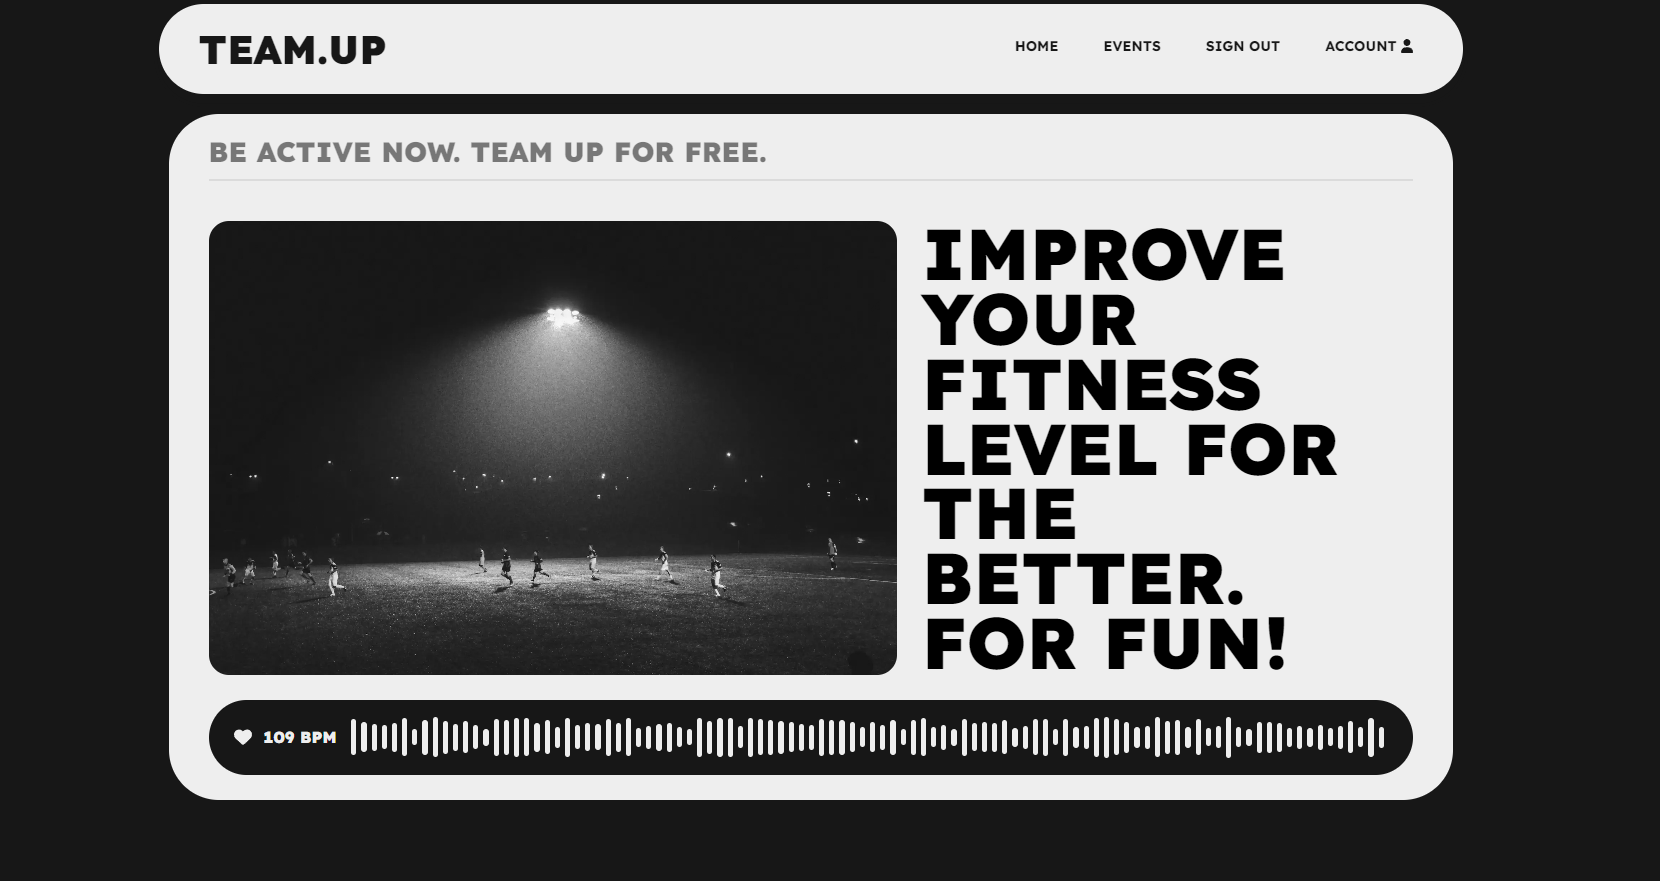
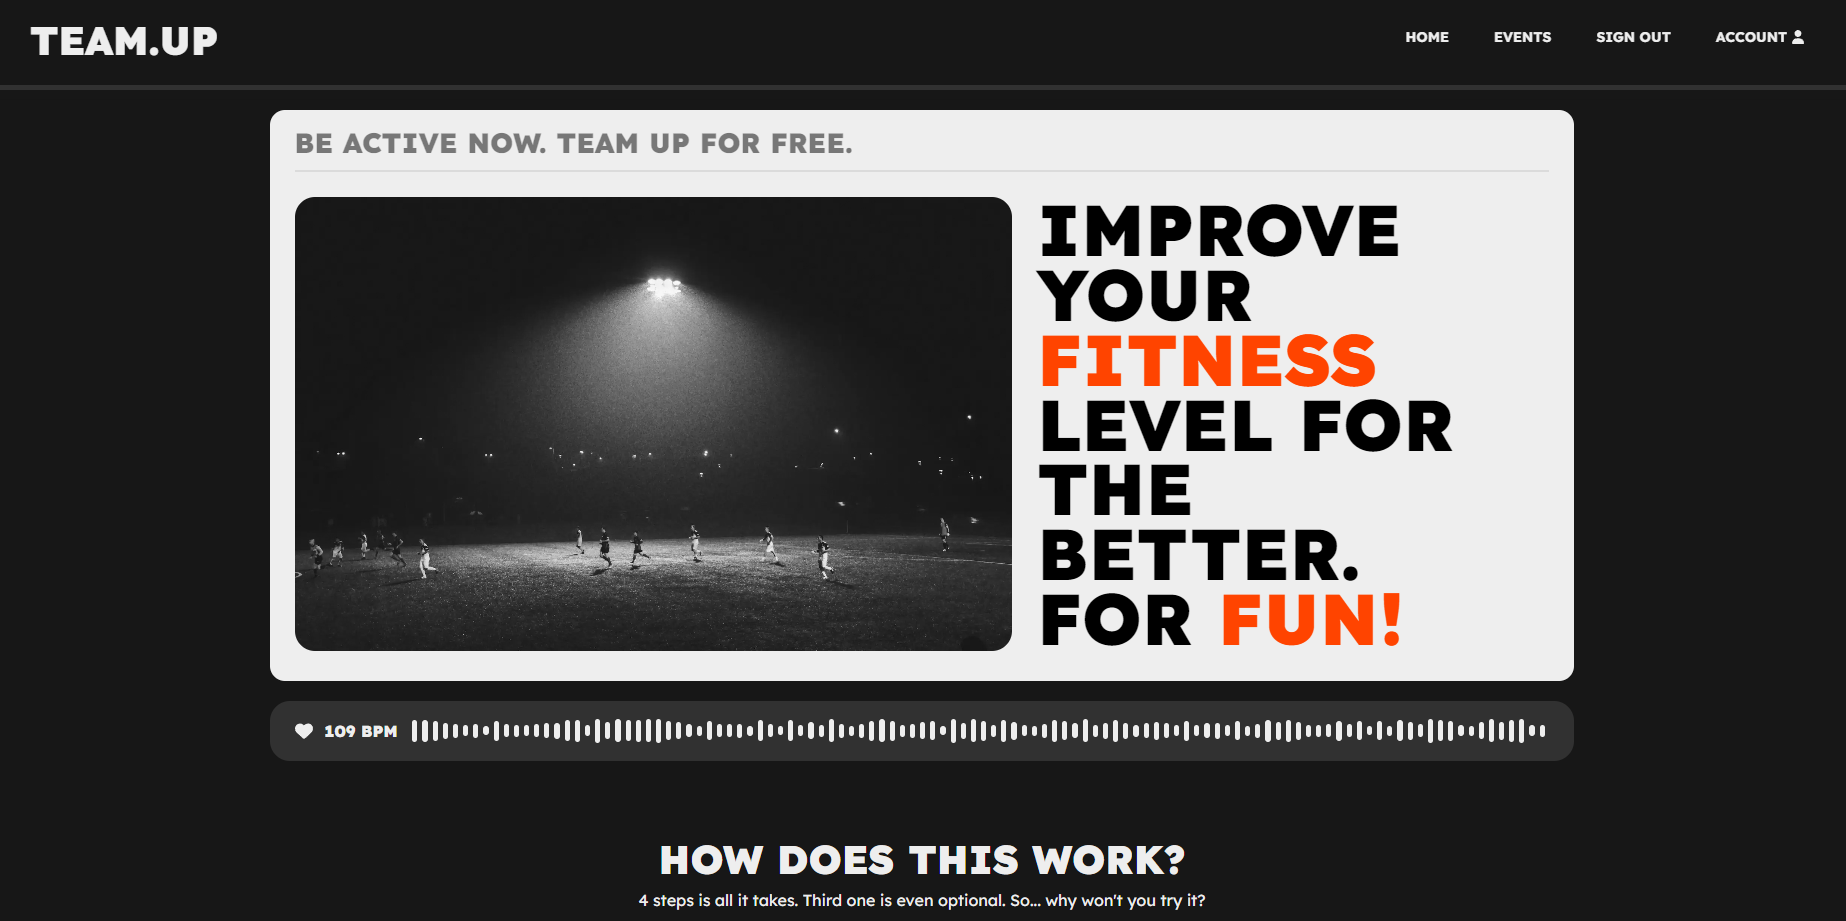
TU-28: Updated envs

diff --git a/src/components/structure/navbar/Navbar.module.scss b/src/components/structure/navbar/Navbar.module.scss
@@ -11,22 +11,21 @@
   align-items: center;
   gap: $spacing-m;
   padding: $spacing-xl $spacing-xxl;
-  margin: $spacing-m auto;
-  background: $primary-main-color;
+  margin: 0 auto $spacing-m;
+  background: $background-main-color;
+  border-bottom: 5px solid $background-light-color;
   box-shadow: $light-shadow;
-  border-radius: $radius-xxl;
   transition: transform 0.3s;
   box-sizing: border-box;
 
-  @include dynamic-width;
-  width: calc(100% - 2 * #{$spacing-m});
+  width: 100%;
 
   &.collapsed {
     transform: translateY(-500%);
   }
 
   .logo {
-    color: $text-primary;
+    color: $text-secondary;
     word-break: break-all;
     text-transform: uppercase;
     font-size: $logo-font;
@@ -51,14 +50,14 @@
     @media (max-width: $lg) {
       position: absolute;
       left: 0;
-      top: calc(100% + #{$spacing-m});
+      top: 100%;
       width: 100%;
       flex-direction: column;
-      background: $primary-main-color;
+      background: $background-main-color;
       padding: $spacing-m $spacing-l;
-      border-radius: $radius-m;
       box-shadow: $light-shadow;
       box-sizing: border-box;
+      border-bottom: 5px solid $background-light-color;
 
       &.hidden {
         transform: translateY(-500px);
@@ -66,7 +65,7 @@
     }
 
     .tab {
-      color: $text-primary;
+      color: $text-secondary;
       padding: $spacing-m;
       font-size: $s-font;
       font-weight: bold;

diff --git a/src/components/landing/landing-banner/LandingBanner.module.scss b/src/components/landing/landing-banner/LandingBanner.module.scss
@@ -2,13 +2,13 @@
 @import "src/styles/mixins.module";
 
 .landingBanner {
-  max-width: 100%;
+  width: 100%;
   overflow: hidden;
   position: relative;
   margin: $spacing-m;
-  padding: $spacing-m $spacing-xxl $spacing-xl;
+  padding: $spacing-s $spacing-xl;
   background-color: $primary-main-color;
-  border-radius: $radius-xxl;
+  border-radius: $radius-s;
   box-sizing: border-box;
 
   .header {
@@ -18,33 +18,18 @@
     opacity: 0.5;
   }
 
-  &:hover {
-    .content {
-      .imageContainer {
-        filter: none;
-      }
-
-      .slogan {
-        b {
-          color: $secondary-main-color;
-        }
-      }
-    }
-  }
-
   .content {
+    margin: $spacing-xl 0 $spacing-xl 0;
+    box-sizing: border-box;
     display: grid;
     grid-template-columns: 7fr 5fr;
     grid-column-gap: $spacing-xl;
-    margin: $spacing-xxl 0 $spacing-xl 0;
-    box-sizing: border-box;
 
     .imageContainer {
       position: relative;
       overflow: hidden;
       border-radius: $radius-m;
       filter: saturate(0);
-      transition: filter 0.3s;
 
       img {
         object-fit: cover;
@@ -61,7 +46,7 @@
 
       b {
         font-weight: inherit;
-        transition: color 0.3s;
+        color: $secondary-main-color;
       }
     }
   }

diff --git a/src/components/landing/heart-monitor/HeartMonitor.module.scss b/src/components/landing/heart-monitor/HeartMonitor.module.scss
@@ -3,15 +3,15 @@
 
 .heartMonitor {
   width: 100%;
-  height: 75px;
+  height: 60px;
   display: flex;
   justify-content: center;
   align-items: center;
   gap: $spacing-m;
-  background-color: $background-main-color;
+  background-color: $background-light-color;
   color: $primary-main-color;
   padding: 0 $spacing-xl;
-  border-radius: $radius-xxl;
+  border-radius: $radius-m;
   box-sizing: border-box;
 
   .heartbeatIcon {
@@ -26,13 +26,13 @@
   }
 
   .chartContainer {
-    height: 80%;
+    height: 50%;
     flex-grow: 1;
     display: flex;
     justify-content: space-evenly;
     align-items: center;
     gap: 5px;
-    padding: $spacing-s;
+    padding: 0 $spacing-s;
     box-sizing: border-box;
 
     .dash {

diff --git a/src/pages/index.tsx b/src/pages/index.tsx
@@ -3,11 +3,13 @@ import SectionHeader from '@components/structure/section-header/SectionHeader';
 import MainLayout from '@layouts/main/MainLayout';
 import TilesContainer from '@components/structure/tiles-container/TilesContainer';
 import { HOW_TO_USE_STEPS } from '@shared/constants/ContentConstants';
+import HeartMonitor from '@components/landing/heart-monitor/HeartMonitor';
 
 const Home = () => {
   return (
     <MainLayout>
       <LandingBanner />
+      <HeartMonitor />
       <SectionHeader
         header="How does this work?"
         subheader="4 steps is all it takes. Third one is even optional. So... why won't you try it?"

diff --git a/src/components/landing/landing-banner/LandingBanner.tsx b/src/components/landing/landing-banner/LandingBanner.tsx
@@ -1,7 +1,6 @@
 import styles from './LandingBanner.module.scss';
 import Image from 'next/image';
 import { FOOTBALL_DARK_IMG } from '@shared/constants/ImageConstants';
-import HeartMonitor from '@components/landing/heart-monitor/HeartMonitor';
 
 const LandingBanner = () => {
   return (
@@ -15,7 +14,6 @@ const LandingBanner = () => {
           Improve your <b>fitness</b> level for the better. For <b>fun!</b>
         </p>
       </section>
-      <HeartMonitor />
     </article>
   );
 };

diff --git a/src/services/ApiClient.ts b/src/services/ApiClient.ts
@@ -1,11 +1,10 @@
 import axios, { HttpStatusCode } from 'axios';
 import { refreshToken } from './AuthService';
 import { signOut } from 'next-auth/react';
-
-export const apiURL = process.env.REACT_APP_PROD_API_URL ?? 'http://localhost:8080/app';
+import { API_URL } from '@shared/config/AppConfig';
 
 export const apiClient = axios.create({
-  baseURL: apiURL,
+  baseURL: API_URL,
   headers: {
     'Content-Type': 'application/json',
     Accept: 'application/json'

diff --git a/src/components/primitives/button/Button.tsx b/src/components/primitives/button/Button.tsx
@@ -3,13 +3,13 @@ import styles from './Button.module.scss';
 import classNames from 'classnames';
 
 export interface ButtonProps extends ComponentProps<'button'> {
-  variant: 'main' | 'success' | 'error' | 'secondary' | 'plain';
+  variant?: 'main' | 'success' | 'error' | 'secondary' | 'plain';
 }
 
 const Button = ({
   onClick,
   children,
-  variant,
+  variant = 'main',
   className,
   type = 'button',
   ...props

diff --git a/src/components/landing/heart-monitor/HeartMonitor.tsx b/src/components/landing/heart-monitor/HeartMonitor.tsx
@@ -10,7 +10,7 @@ const HeartMonitor = () => {
   const MIN_RATE = 105;
   const MAX_RATE = 160;
   const MAX_CHANGE = 10;
-  const INTERVAL = 750;
+  const INTERVAL = 550;
   const MIN_GRAPH_HEIGHT = 30;
   const GRAPH_HEIGHT_DIFF = 20;
   const DASHES_MULTIPLIER = 0.1;

diff --git a/src/components/sports/sports-panel/SportsPanel.module.scss b/src/components/sports/sports-panel/SportsPanel.module.scss
@@ -2,7 +2,7 @@
 @import "src/styles/mixins.module";
 
 .sportsPanelContainer {
-  width: 95%;
+  width: 100%;
   padding: $spacing-m $spacing-l;
   background-color: $background-light-color;
   color: $text-secondary;

diff --git a/src/shared/config/AppConfig.ts b/src/shared/config/AppConfig.ts
@@ -1,2 +1,3 @@
 export const MIN_AGE = 12;
 export const GOOGLE_API_KEY = process.env.NEXT_PUBLIC_GOOGLE_MAPS_API_KEY ?? '';
+export const API_URL = process.env.NEXT_PUBLIC_API_URL ?? 'http://localhost:8080/app';

diff --git a/src/components/events/add-event-banner/AddEventBanner.module.scss b/src/components/events/add-event-banner/AddEventBanner.module.scss
@@ -2,7 +2,7 @@
 @import "src/styles/mixins.module";
 
 .addEventBanner {
-  width: 95%;
+  width: 100%;
   display: flex;
   justify-content: center;
   align-items: center;

diff --git a/src/styles/mixins.module.scss b/src/styles/mixins.module.scss
@@ -8,7 +8,7 @@
 }
 
 @mixin dynamic-width {
-  width: 100%;
+  width: 95%;
 
   @media (min-width: $sm) {
     width: 80%;
